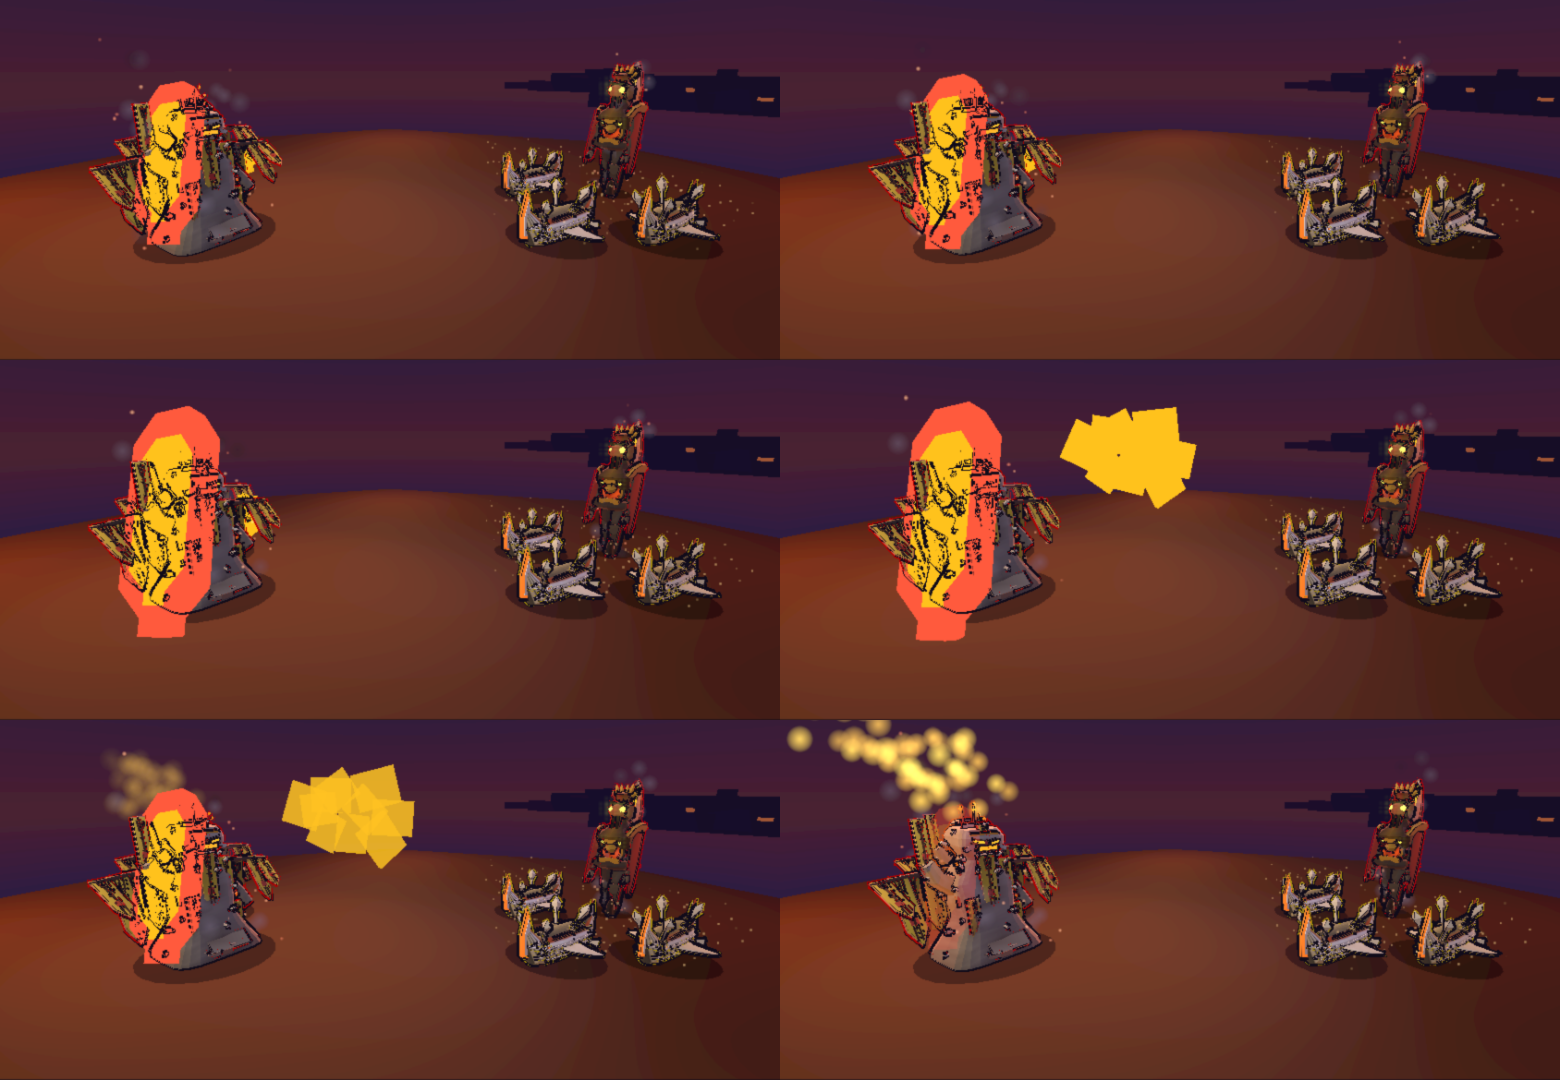
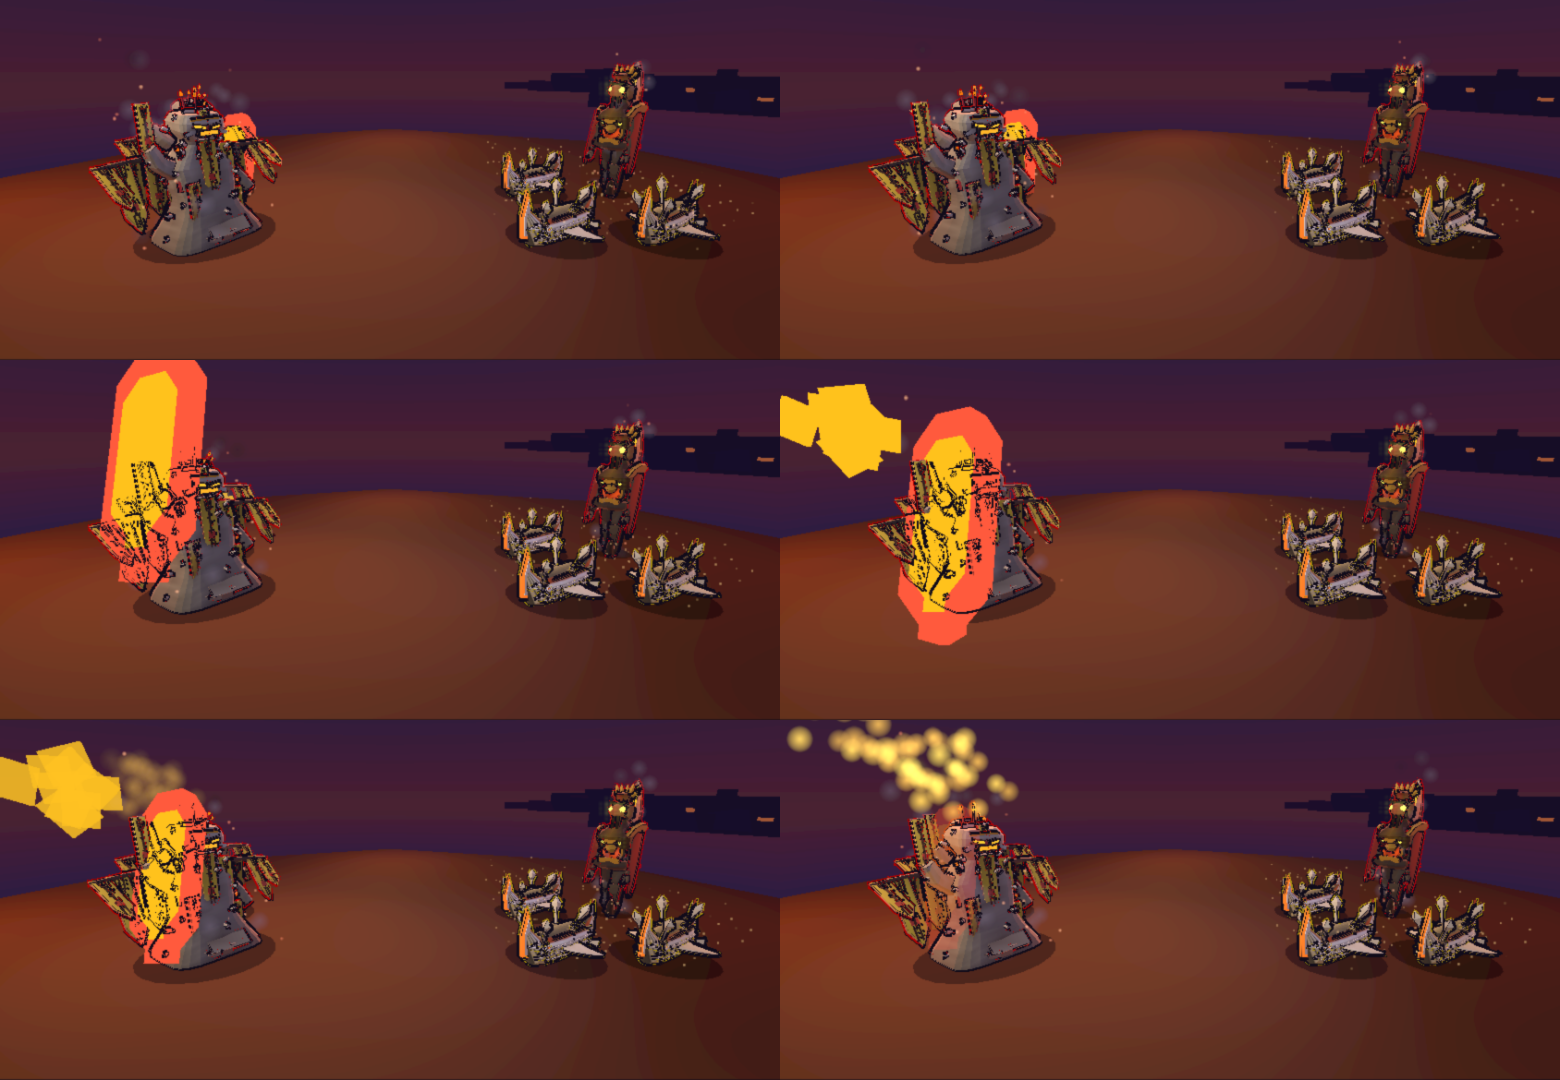
招式演出卷 香火批1：覆審 r2 修補（N1／N2／N3）
N1（HIGH）香灰符的 st.stick 寫在時間軸外：
  移進飛行 st.trail 的 done()；連帶修掉被它蓋住的真缺陷——
  飛行段一活過來，L3 凍在 travel 中點量到的是飛行中的符，而舊的
  ease:'in'＋arc 0.20 讓符還埋在法師身體裡，P3 掉到 0.0006%。
  落點改成「黏上去的那一點」（前鋒 Chest ＋ camOff(1)）避免 react 瞬移，
  ease 改 'out'、arc 0.72、飛行途中往鏡頭鼓出 camOff(1.5)×sin(πe)。
  P3 t2 1.1857%／77.80、t1 1.1724%／78.81，draw call 178→185。
  鑑別力：缺陷態下改飛行參數 A 圖逐位元組相同（死碼），修後不同；
  拿掉 stick 後凍幀逐位元組不變（面積全來自飛行）。
  全 9 支 grep 過，同型只有這 1 處；另兩處 st.mark 是 opacity:0 建立、
  到拍才淡入的合法寫法。

N2（MEDIUM）eliteCleave／wardAtkAll1 的「只有一尊」退路用世界 ±Z：
  改成 crossVectors(st.camDir, UP_Y)＝畫面左右。
  據實記錄：L3 治具 foe=4／count=2，這兩個分支從沒被行使過
  （幅度放大到 3.00，A 圖逐位元組不變），另寫唯讀探針在 count=1 下量 NDC：
  修後南北／西東兩個座位畫面位置相同、世界座標剛好轉 90°；
  突變版在西東偏掉 0.10–0.11 NDC。

N3（MEDIUM）solo 紅燈只綁 CLI --count：
  countN 改成「CLI 覆寫優先，沒帶就用案例自己的 c.count」＝加嚴。
  三態：造一個 react-solo 的真缺陷，新版 FAIL 0/1、舊版 PASS 1/1、還原 PASS 1/1。

N4 已於 r1 修過，N5／N6 記錄不修。

驗收：12 套規則測試全綠；trace-eq 對 98ab851 equal:true；
traitfx-drive t1 27/27・t2 30/30・t3 3/3，--fxvocab=1 27/27・30/30；
--count=2 全套 30/30 且 soloReact=[]；P3 九支 t2 9/9 pass；
duel-drive seed 7／3 各 4 場 errors 0。
門檻／seed／視口／PHASE_GATE／TRAIT_MS_BY_TIER 一律未動，index.html 零 diff。

報告 §9；p4-truth.json 未動，§9.6 提出兩件交裁（r3 香灰符材料是修補前版本、
近景 camdist 2.4 下符偏大）。

Claude-Session: https://claude.ai/code/session_019vj9aD29X48P3patz8CKuu

diff --git a/js/trait-fx/xianghuo.js b/js/trait-fx/xianghuo.js
@@ -205,7 +205,13 @@ const MOVES = {
     const pts = foes.map((f) => st.worldOf(f, null, new THREE.Vector3()));
     const head = pts.length ? pts[0].clone() : tip.clone().addScaledVector(st.dir, 1.4);
     const tail = pts.length ? pts[pts.length - 1].clone() : head.clone();
-    if (pts.length < 2) { head.z -= 0.55; tail.z += 0.55; }
+    /* ★覆審 r2 N2★：這一支的 `pts` 來自 `st.target`，**1v1 時只有一尊**，要自己撐出「橫掃」的兩端。
+       原本寫的是世界 ±Z，那是 H1 同一個病（世界常數在西東對局會變成別的方向）。
+       改用 `st.camDir` 叉乘世界 Y ＝**畫面的左右方向**（與 `js/duel-figures.js:684` 的 `tmpRight` 同一條）。 */
+    if (pts.length < 2) {
+      const side = new THREE.Vector3().crossVectors(st.camDir, UP_Y).normalize().multiplyScalar(0.55);
+      head.sub(side); tail.add(side);
+    }
     head.y += 0.42; tail.y += 0.42;
 
     // ── 丁 斬擊弧：鎏金面＋ink 墨線邊的實體（不是加色平面）──
@@ -306,7 +312,11 @@ const MOVES = {
     const sweepOrder = others.concat([lead]); // 旗先掃同伴、最後回到自己
     const pts = sweepOrder.map((f) => st.worldOf(f, null, new THREE.Vector3()).add(camOff(st, 1.6)).setY(st.worldOf(f, null, _a).y + 0.50));
     const from = pts[0].clone(), to = pts[pts.length - 1].clone();
-    if (pts.length < 2) { from.z -= 0.62; to.z += 0.62; }
+    /* 同上（覆審 r2 N2）：本方只有一尊時撐出掃過的兩端，方向取**畫面左右**而不是世界 ±Z。 */
+    if (pts.length < 2) {
+      const side = new THREE.Vector3().crossVectors(st.camDir, UP_Y).normalize().multiplyScalar(0.62);
+      from.sub(side); to.add(side);
+    }
     const rise = from.clone(); rise.y += 1.30; // 升起段＝travel 的位移來源（不跨中線）
     /* 旗掃的那一段往鏡頭推一個身位：對決機位在世界 +X，推近之後同樣的世界尺寸在畫面上更大。
        ★這是 P3 與 §A3 打架時的解★——大旗要再放大才夠 0.8% 面積，但 `flag` 這一尊 figH 只有 1.42、
@@ -1069,6 +1079,13 @@ const MOVES = {
        改法一致：先**升起**（垂直高度差提供 travel 的位移、不跨中線），再落到同伴／每一尊我方身上。 */
     const via = palm.clone().lerp(head, 0.35).addScaledVector(st.dir, -0.55).add(camOff(st, 1.2));
     via.y += 0.55;
+    /* ★覆審 r2 N1 的配套①★：`st.stick` 移進 `done()` 之後，飛行段才真的在畫面上跑，
+       於是**飛行段的落點必須就是黏上去的那一點**（前鋒胸口＋同一個 `camOff(st, 1)`），
+       否則 react 那一幀會看到符「瞬移」一次。灰流仍舊落在 `via`（前鋒身前那一團），兩者分開。 */
+    const land = st.worldOf(mate, 'Chest', new THREE.Vector3());
+    if (!land.lengthSq()) { st.worldOf(mate, null, land); land.y += 0.55; }
+    land.add(camOff(st, 1));
+    const bow = camOff(st, 1.5); // 飛行弧往鏡頭鼓出的量（見下面 st.trail 的 update）
 
     // ── 丙 金灰顆粒流：一群紙片＝1 個 draw call（群體位移掛 InstancedMesh 物件本身，§A5）──
     const ASH = 10;
@@ -1126,19 +1143,33 @@ const MOVES = {
       for (let i = 0; i < ASH; i++) grains[i].rz += 0.14;
       writeAsh(Math.min(1, e * 1.2));
     } });
-    st.trail(talis, palm, via, { ms: TL, delay: T0, ease: 'in', trail: false, arc: 0.20,
+    /* ★覆審 r2 N1 的配套②★：`ease: 'in'` ＋ `arc: 0.20` 是「黏死在第 0 幀」時代留下來的寫法——
+       那時候飛行段是死碼，怎麼寫都看不出來。真的飛起來之後，`in` 會讓符在**前半段幾乎不動**，
+       L3 凍結的 travel 中點（tier 2＝430ms）符還埋在法師自己的紙紮身體裡，實測只剩 0.0006%。
+       改 `out` ＋ 抬高弧度：符一離手就拉開，中點時已在半空、越過兩尊之間，面積才回得來。 */
+    st.trail(talis, palm, land, { ms: TL, delay: T0, ease: 'out', trail: false, arc: 0.72,
+      /* 飛行途中往**鏡頭這一側**鼓出一道弧（兩端 sin=0，落點不變）：
+         L3 凍在 travel 中點，正是這個弧的頂點——同樣的世界尺寸離鏡頭近就佔更多畫面。
+         符本身的尺寸已經頂到 §A3 的 2/3（Q5 實測 0.651／上限 0.667），只剩這條路可走。 */
+      update(t, e) { talis.position.addScaledVector(bow, Math.sin(Math.PI * e)); },
       done() {
         /* ★衝擊拍★：傾倒到位＝灰流抵達＝符落定＝前鋒同幀亮邊上抬 */
         st.phase('react');
         st.punch(0.34);
         st.burst(head, { power: 0.8, n: 44, color: C.key });
+        /* ★覆審 r2 N1（HIGH）★：`st.stick` **必須排在這裡**，不能寫在時間軸外。
+           `js/trait-fx.js` 的 `stick()` 是**立刻** push 進 `run.follow`、之後每一幀覆寫那個物件的位置，
+           所以在編舞的同步段呼叫＝符從**第 0 幀**就黏在受益方身上，上面那條飛行 tween 整段變成死碼
+           （覆審實測：把 `via` 移開 3 個單位，L3 的 A／B 圖逐位元組相同；把 `st.stick` 拿掉才看得到飛行、
+           面積從 0.0006% 變回正常）。移進 `done()` 之後才是「飛到落點那一刻才黏上去」。 */
+        st.stick(talis, mate, { at: 'chest', off: camOff(st, 1) });
       } });
     /* 符放大到 1.15×iconSize：0.98 時 P3 只有 0.6656%／0.6921%（門檻 0.8），而灰流走 prop: 不進量測對象，
        符是這一招唯一量得到的一件。放大後仍在 §A3 的 2/3 內（Q5 實測 0.555→0.651）。 */
     st.tween({ ms: TL, delay: T0, ease: 'out', update(t, e) { talis.scale.setScalar(st.iconSize * (0.85 + 0.30 * e)); } });
 
-    /* ③ 前鋒受益（react）：符從半空落到前鋒身上並黏住、那一尊上抬亮邊；灰散掉 */
-    st.stick(talis, mate, { at: 'chest', off: camOff(st, 1) });
+    /* ③ 前鋒受益（react）：符落定後黏在前鋒身上（`st.stick` 已移進上面那條飛行 tween 的 `done()`）、
+       那一尊上抬亮邊；灰散掉 */
     st.tween({ ms: RL * 0.5, delay: R0, ease: 'back', update(t, e) { talis.scale.setScalar(st.iconSize * (1.15 - 0.45 * e)); } });
     st.fade(talis, { ms: RL * 0.4, delay: R0 + RL * 0.55, from: 1, to: 0 });
     st.fade(ash.obj, { ms: RL * 0.5, delay: R0, from: 0.95, to: 0 });
